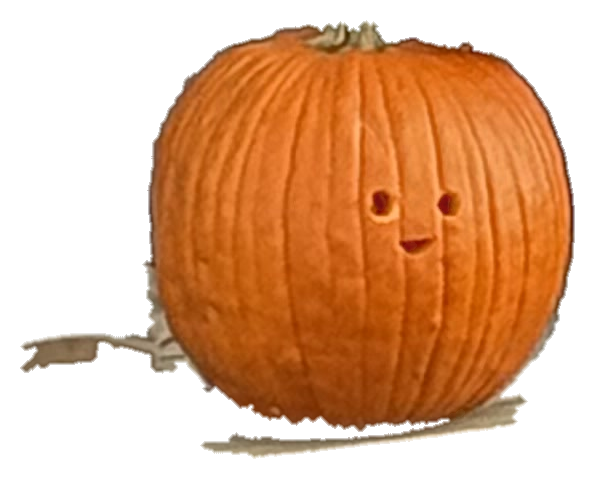
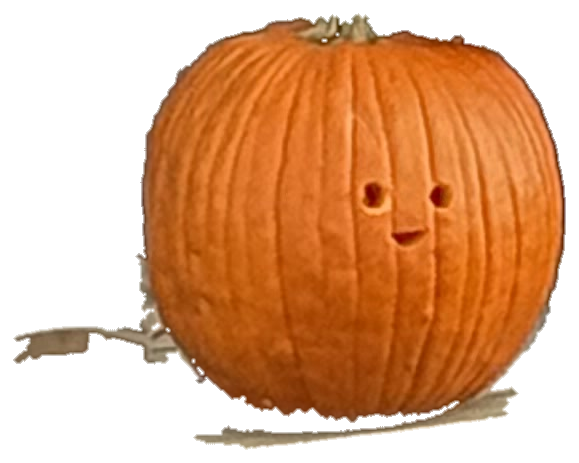
Polish pumpkin spirit leap: keep photo, no hole masks
Use the original photo as the background and animate glowing pumpkin
spirits that materialize and leap at faces, avoiding inpaint artifacts.

diff --git a/pumpkin-attack/src/Composition.tsx b/pumpkin-attack/src/Composition.tsx
@@ -82,7 +82,7 @@ const PumpkinAttack: React.FC = () => {
         }}
       >
         <Img
-          src={staticFile("group-clean.jpg")}
+          src={staticFile("group.jpg")}
           style={{
             width: "100%",
             height: "100%",
@@ -152,15 +152,22 @@ const AttackPumpkin: React.FC<{
   const frame = useCurrentFrame();
   const { fps } = useVideoConfig();
 
-  const wake = delay + 0.7 * fps;
-  const leapStart = delay + 1.7 * fps;
-  const leapEnd = leapStart + 0.55 * fps;
+  const wake = delay + 0.4 * fps;
+  const leapStart = delay + 1.1 * fps;
+  const leapEnd = leapStart + 1.15 * fps;
   const chompStart = leapEnd;
+
+  // Spirit pumpkin materializes over the real one, then leaps out
+  const materialize = interpolate(frame, [wake, wake + 0.45 * fps], [0, 1], {
+    extrapolateLeft: "clamp",
+    extrapolateRight: "clamp",
+    easing: Easing.bezier(0.16, 1, 0.3, 1),
+  });
 
   const wakePulse = interpolate(
     frame,
     [wake, wake + 0.35 * fps, leapStart],
-    [1, 1.08, 1.04],
+    [0.92, 1.12, 1.06],
     {
       extrapolateLeft: "clamp",
       extrapolateRight: "clamp",
@@ -168,20 +175,15 @@ const AttackPumpkin: React.FC<{
     },
   );
 
-  const wobble = interpolate(
-    frame,
-    [wake, leapStart],
-    [0, 1],
-    {
-      extrapolateLeft: "clamp",
-      extrapolateRight: "clamp",
-    },
-  );
+  const wobble = interpolate(frame, [wake, leapStart], [0, 1], {
+    extrapolateLeft: "clamp",
+    extrapolateRight: "clamp",
+  });
 
   const leapProgress = interpolate(frame, [leapStart, leapEnd], [0, 1], {
     extrapolateLeft: "clamp",
     extrapolateRight: "clamp",
-    easing: Easing.bezier(0.15, 0.9, 0.25, 1),
+    easing: Easing.bezier(0.12, 0.85, 0.2, 1),
   });
 
   const startX = pumpkin.x * SCALE;
@@ -189,11 +191,10 @@ const AttackPumpkin: React.FC<{
   const width = pumpkin.w * SCALE;
   const height = pumpkin.h * SCALE;
 
-  // Aim at the face so they jump into the person
   const endX = pumpkin.targetX * SCALE - width * 0.45;
-  const endY = pumpkin.targetY * SCALE - height * 0.35;
+  const endY = pumpkin.targetY * SCALE - height * 0.4;
 
-  const arc = Math.sin(leapProgress * Math.PI) * (-90 - index * 12);
+  const arc = Math.sin(leapProgress * Math.PI) * (-200 - index * 20);
 
   const chompT = Math.max(0, frame - chompStart);
   const chompBounce =
@@ -208,24 +209,34 @@ const AttackPumpkin: React.FC<{
     startY + (endY - startY) * leapProgress + arc + chompBounce;
 
   const spin =
-    interpolate(frame, [leapStart, leapEnd + 1.2 * fps], [0, 380 + index * 40], {
+    interpolate(frame, [leapStart, leapEnd + 1.2 * fps], [0, 420 + index * 45], {
       extrapolateLeft: "clamp",
       extrapolateRight: "clamp",
       easing: Easing.bezier(0.2, 0.8, 0.2, 1),
     }) +
     Math.sin(frame * 0.35 + index) * 10 * wobble;
 
-  const glow = interpolate(frame, [wake, leapStart, chompStart + 0.5 * fps], [0, 0.9, 1], {
-    extrapolateLeft: "clamp",
-    extrapolateRight: "clamp",
-  });
+  const glow = interpolate(
+    frame,
+    [wake, leapStart, chompStart + 0.5 * fps],
+    [0, 1, 1],
+    {
+      extrapolateLeft: "clamp",
+      extrapolateRight: "clamp",
+    },
+  );
 
   const scaleBoost =
     wakePulse *
-    interpolate(frame, [leapStart, leapEnd, chompStart + 0.3 * fps], [1, 1.25, 1.12], {
-      extrapolateLeft: "clamp",
-      extrapolateRight: "clamp",
-    });
+    interpolate(
+      frame,
+      [leapStart, leapStart + 0.35 * fps, leapEnd, chompStart + 0.3 * fps],
+      [1, 1.35, 1.2, 1.1],
+      {
+        extrapolateLeft: "clamp",
+        extrapolateRight: "clamp",
+      },
+    );
 
   return (
     <div
@@ -235,9 +246,10 @@ const AttackPumpkin: React.FC<{
         top: y,
         width,
         height,
+        opacity: materialize,
         rotate: `${spin + Math.sin(frame * 0.5 + index) * 8 * wobble}deg`,
         scale: scaleBoost,
-        filter: `drop-shadow(0 0 ${18 * glow}px rgba(255,120,0,${0.85 * glow})) drop-shadow(0 ${12 + 20 * leapProgress}px ${18 + 10 * leapProgress}px rgba(0,0,0,0.45))`,
+        filter: `drop-shadow(0 0 ${22 * glow}px rgba(255,120,0,${0.9 * glow})) drop-shadow(0 ${12 + 24 * leapProgress}px ${20 + 12 * leapProgress}px rgba(0,0,0,0.5))`,
         zIndex: 10 + index + Math.round(leapProgress * 10),
         transformOrigin: "50% 50%",
       }}
